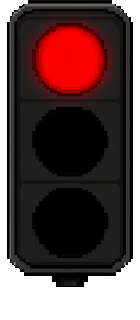
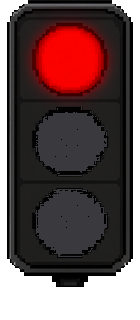
Light the unlit bulbs to a dark grey
Pure black read as part of the housing; there was no telling a dark bulb from the
frame beside it. The two unlit lenses are now #3a3a3e, cool enough to separate from
the warm housing without suggesting the lamp is lit.

Finding them needed care: (0,0,0) covers the bulbs and also the frame's shadows and
edges, about nine thousand pixels in all. The tool projects black pixels onto rows,
takes the three tall runs as bulbs, and recolours only within a circle fitted to
each one, so the frame is untouched.

The original shading inside each lens is not pure black, so a darker crescent
survives and reads as a recessed, unlit lens.

Changed region(s): [[0.2571, 0.3438, 0.7714, 0.5625], [0.2571, 0.5938, 0.7714, 0.8125]]

diff --git a/tools/recolor_unlit.py b/tools/recolor_unlit.py
@@ -1,0 +1,85 @@
+#!/usr/bin/env python3
+"""把「没亮的灯泡」从纯黑改成深灰。
+
+原来是纯黑 (0,0,0)，和灯罩边框的暗色几乎融在一起，看不出那里是个灯泡。
+改成偏冷的深灰，既不像亮着，又能看出灯泡的形状。
+
+做法：按行投影找出「大片纯黑」的团块（就是没亮的灯泡），
+      用质心 + 半径把它圈出来，只在这个圆里改色。
+      边框、阴影那些零散的纯黑不受影响。
+"""
+
+from __future__ import annotations
+
+import sys
+
+import numpy as np
+from PIL import Image
+
+BULB_GREY = (58, 58, 62)   # 偏冷的深灰，跟暖色调灯罩拉开一点
+MIN_BLOB_ROWS = 20         # 连续这么高的黑区才算灯泡
+THRESHOLD = 128            # alpha 阈值
+
+
+def recolor(im: Image.Image) -> tuple[Image.Image, int]:
+    a = np.array(im.convert("RGBA"))
+    h, w, _ = a.shape
+    rgb = a[:, :, :3]
+    black = (rgb[:, :, 0] == 0) & (rgb[:, :, 1] == 0) & (rgb[:, :, 2] == 0) & (a[:, :, 3] > THRESHOLD)
+
+    rows = black.sum(axis=1)
+    # 找连续的行区间（每行黑像素足够多才算灯泡的一部分）
+    blobs = []
+    run_start = None
+    for y in range(h):
+        heavy = rows[y] > w * 0.10
+        if heavy and run_start is None:
+            run_start = y
+        elif not heavy and run_start is not None:
+            if y - run_start >= MIN_BLOB_ROWS:
+                blobs.append((run_start, y - 1))
+            run_start = None
+    if run_start is not None and h - run_start >= MIN_BLOB_ROWS:
+        blobs.append((run_start, h - 1))
+
+    changed = 0
+    for y0, y1 in blobs:
+        strip = black[y0:y1 + 1]
+        ys, xs = np.nonzero(strip)
+        if len(ys) == 0:
+            continue
+        cy = y0 + ys.mean()
+        cx = xs.mean()
+        radius = (len(ys) / np.pi) ** 0.5 * 1.06   # 按面积估半径，留一点余量
+
+        yy, xx = np.mgrid[0:h, 0:w]
+        inside = ((yy - cy) ** 2 + (xx - cx) ** 2) <= radius ** 2
+        target = black & inside
+        n = int(target.sum())
+        if n:
+            a[target, 0] = BULB_GREY[0]
+            a[target, 1] = BULB_GREY[1]
+            a[target, 2] = BULB_GREY[2]
+            changed += n
+        print(f"    团块 y={y0}..{y1}  中心=({cx:.0f},{cy:.0f})  半径={radius:.0f}  改色 {n} 像素")
+
+    return Image.fromarray(a), changed
+
+
+def main() -> None:
+    names = sys.argv[1:] or ["idle", "working", "done", "attention", "offline"]
+    for n in names:
+        path = f"assets/states/{n}.png"
+        try:
+            im = Image.open(path)
+        except OSError:
+            print(f"  跳过 {path}")
+            continue
+        print(f"  {n}:")
+        out, changed = recolor(im)
+        out.save(path)
+        print(f"    合计 {changed} 像素 → {BULB_GREY}")
+
+
+if __name__ == "__main__":
+    main()
